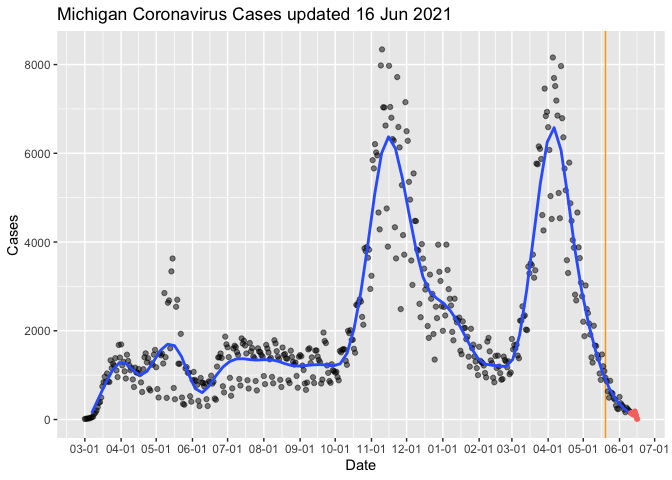
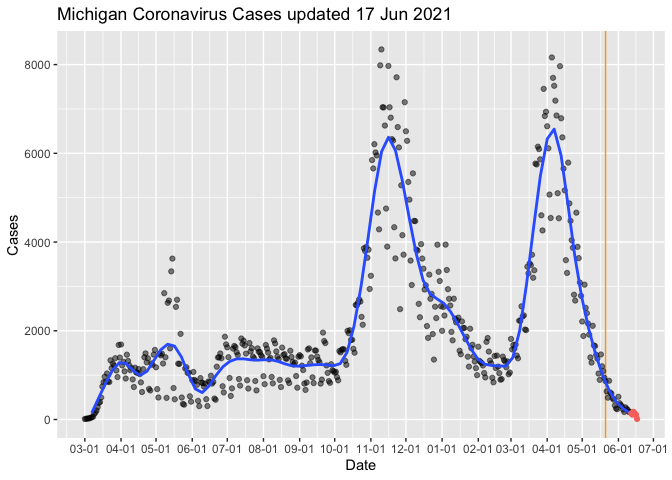
Jun-18 2021 08:22 update

diff --git a/MiCorona.md b/MiCorona.md
@@ -1,7 +1,7 @@
 Michigan COVID Data
 ================
 Adam D. DenHaan
-Jun 17, 2021
+Jun 18, 2021
 
 Get link for data:
 
@@ -47,12 +47,12 @@ mi_data.head()
     ## 3  Alcona 2020-03-04   Confirmed    0.0     0.0               0.0   
     ## 4  Alcona 2020-03-05   Confirmed    0.0     0.0               0.0   
     ## 
-    ##    Deaths.Cumulative                    Updated  
-    ## 0                0.0 2021-06-16 12:55:17.990400  
-    ## 1                0.0 2021-06-16 12:55:17.990400  
-    ## 2                0.0 2021-06-16 12:55:17.990400  
-    ## 3                0.0 2021-06-16 12:55:17.990400  
-    ## 4                0.0 2021-06-16 12:55:17.990400
+    ##    Deaths.Cumulative                       Updated  
+    ## 0                0.0 2021-06-17 14:30:03.519900160  
+    ## 1                0.0 2021-06-17 14:30:03.519900160  
+    ## 2                0.0 2021-06-17 14:30:03.519900160  
+    ## 3                0.0 2021-06-17 14:30:03.519900160  
+    ## 4                0.0 2021-06-17 14:30:03.519900160
 
 ``` python
 max_date = max(mi_data["Updated"])
